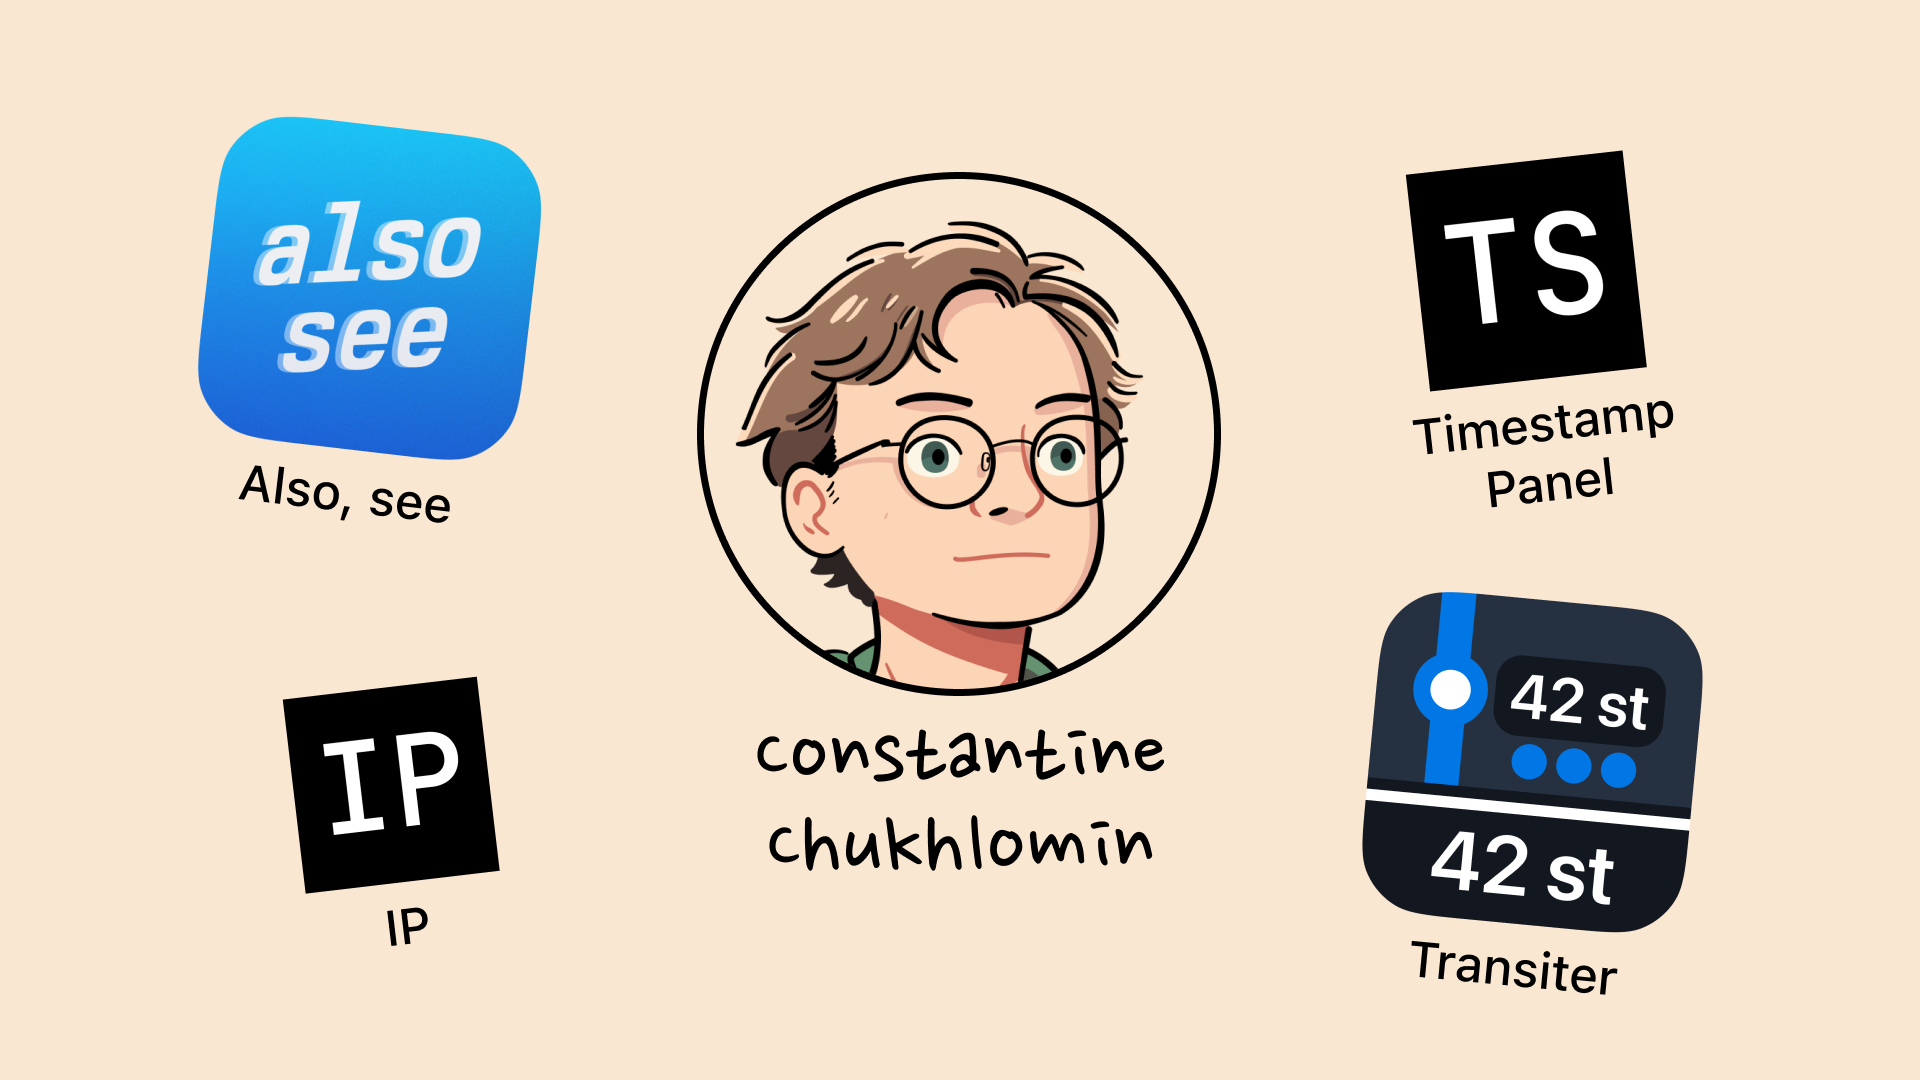
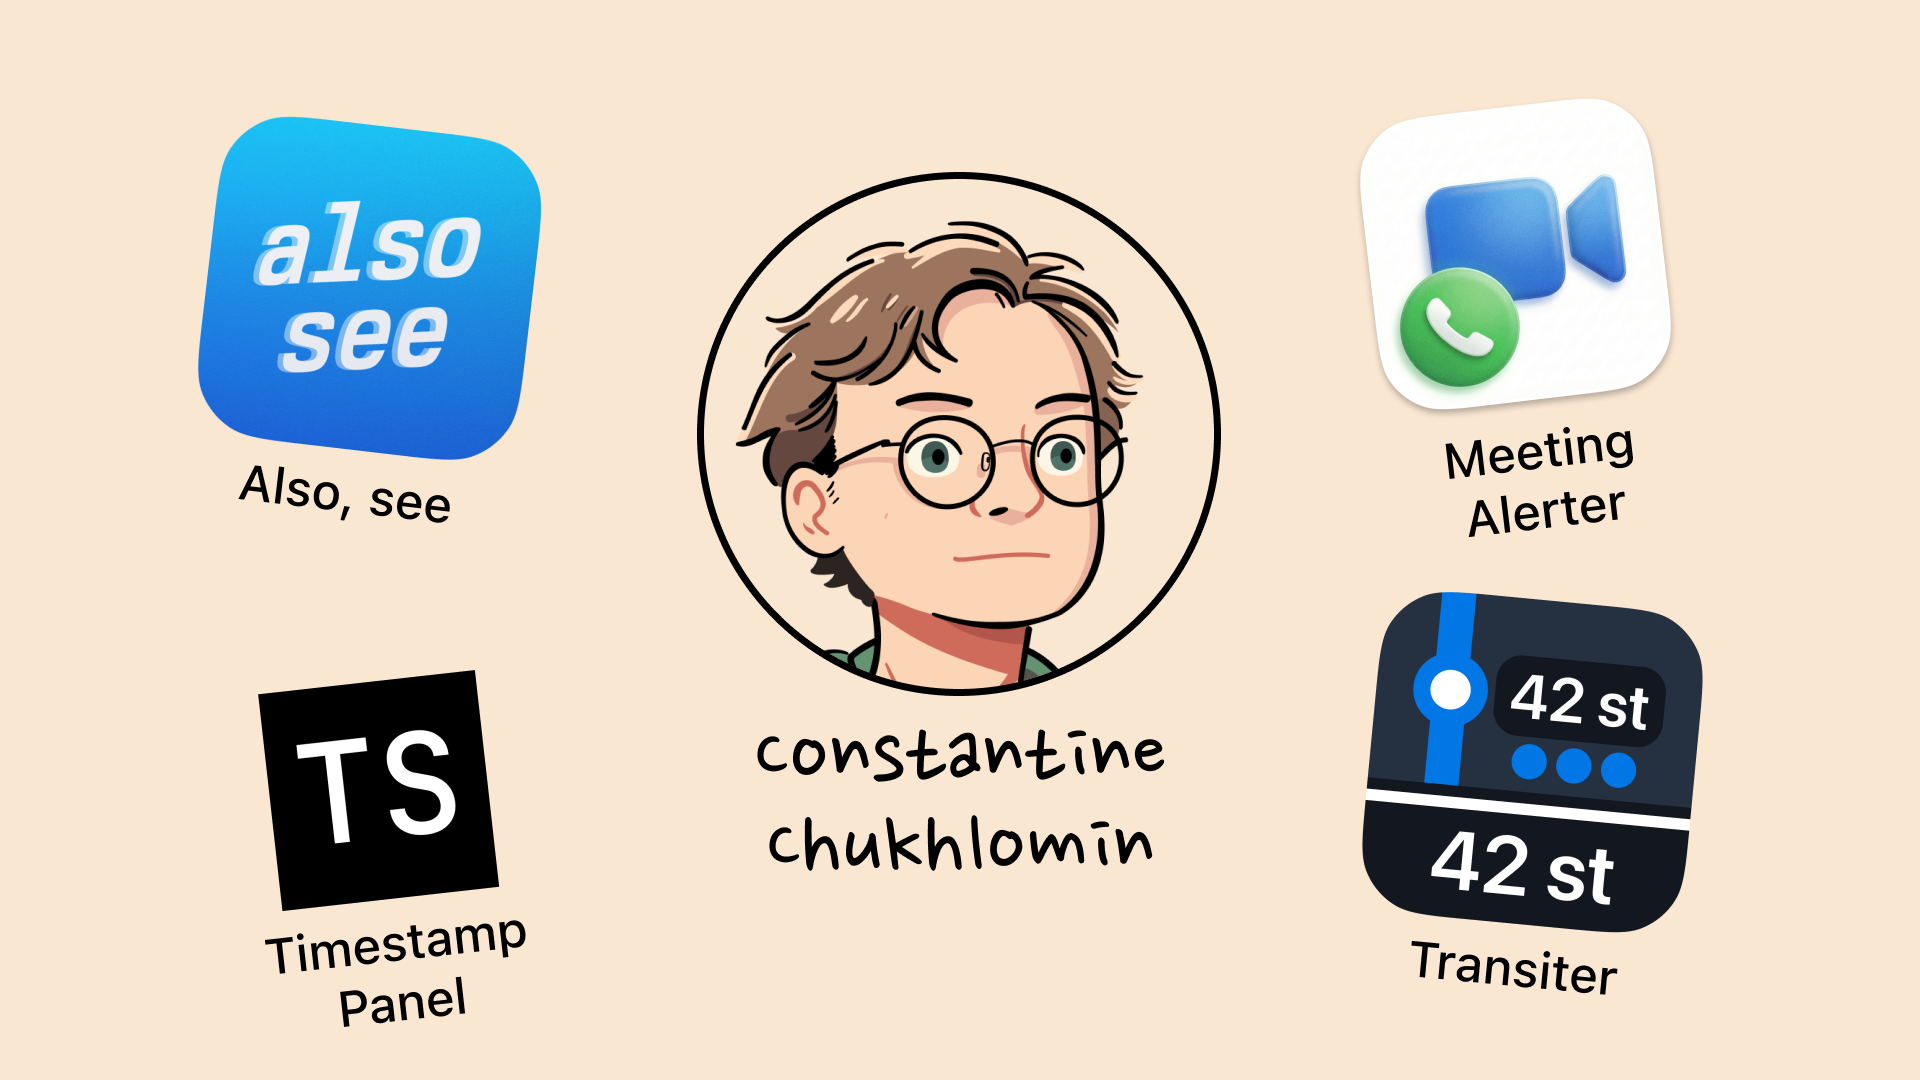
feat: meeting-alerter

Changed region(s): [[0.6875, 0.0917, 0.875, 0.4889], [0.125, 0.6417, 0.2812, 0.9472], [0.1562, 0.6111, 0.25, 0.6417]]

diff --git a/content/styles.css b/content/styles.css
@@ -606,7 +606,8 @@ iframe {
 }
 
 #alsosee,
-#transiter {
+/*#transiter,*/
+#meeting-alerter {
   grid-column: 1 / 3;
 }
 
@@ -1102,7 +1103,8 @@ hr {
   }
 
   #alsosee,
-  #transiter {
+  /*#transiter,*/
+ #meeting-alerter {
     grid-column: 1;
   }
 
@@ -1212,11 +1214,11 @@ hr {
     grid-template-columns: repeat(4, 1fr);
   }
 
-  #alsosee {
+  #meeting-alerter {
     grid-column: 1 / span 2;
   }
 
-  #transiter {
+  #alsosee {
     grid-column: 3 / span 2;
   }
 }
@@ -1270,14 +1272,15 @@ hr {
   box-shadow: 0 0 10px rgba(0, 0, 0, 0.1);
   overflow: hidden;
   position: relative;
-  /* for :before element with blurhash image */
+  /* for :before element with thumbhash image */
   transition-property: outline;
   /* override link transition */
   transition-duration: 0.05s;
 }
 
 .photos .photo.lazy {
-  background: var(--color-background-higher) !important;
+  background-color: var(--color-background-higher);
+  background-image: none !important;
 }
 
 .photos .photo::before {
@@ -1288,7 +1291,10 @@ hr {
   bottom: 0;
   left: 0;
   right: 0;
-  background: var(--background-blurhash);
+  background-image: var(--background-thumbhash);
+  background-repeat: no-repeat;
+  background-position: center;
+  background-size: cover;
   /* set by JS per element */
   opacity: 0;
   transition: opacity 0.33s ease-out;
@@ -1296,6 +1302,14 @@ hr {
 
 .photos .photo.lazy::before {
   opacity: 1;
+}
+
+.photos .photo.lazy:hover {
+  background-image: var(--background-thumb-image) !important;
+}
+
+.photos .photo.lazy:hover::before {
+  opacity: 0;
 }
 
 .photos a:focus {
@@ -1344,7 +1358,7 @@ hr {
   /* center image when text is longer than image width */
 }
 
-#viewer #image.blurhash {
+#viewer #image.thumbhash {
   background-repeat: no-repeat;
   background-position: center;
   background-size: contain;

diff --git a/content/blog/2026/meeting-alerter_ru.md b/content/blog/2026/meeting-alerter_ru.md
@@ -1,0 +1,18 @@
+---
+date: 2026-08-11
+image: meeting-alerter_icon.png
+---
+
+# Meeting Alerter
+
+Очень не люблю опаздывать на онлайн созвоны. Я перепробовал несколько разных приложений, но каждое в чём-то не устроило, и написал своё. Основная идея в том, чтобы показывать _и_ время до начала следующего митинга в строке меню macOS, _и_ окно когда эта встреча начинается.
+
+![Meeting Alerter](meeting-alerter.png "Meeting Alerter")
+
+Работа над этим приложением началась пару лет назад. Сначала хотел выпустить его только с поддержкой Apple Calendar, но EventKit не даёт доступа к прикреплённым документам событий из Google Calendar, поэтому пришлось добавить интеграцию и с Google Calendar напрямую.
+
+С помощью LLM, наконец довёл приложение до релиза.
+
+https://meeting-alerter.app/
+
+#app #macos #project

diff --git a/content/blog/2026/meeting-alerter.md b/content/blog/2026/meeting-alerter.md
@@ -1,0 +1,19 @@
+---
+date: 2026-08-11
+---
+
+# Meeting Alerter
+
+I have been working on this app for a couple of years to help me navigate my crazy days full of meetings.
+
+It lives in the MacOS menu bar, shows what is coming up, reminds me when a meeting starts, and opens Zoom in one click.
+
+![meeting-alerter.png](meeting-alerter.png "Meeting Alerter Promo")
+
+At first, I planned to launch it with Apple Calendar support only. But EventKit does not expose Google Calendar attachments, so I had to add direct Google Calendar support too.
+
+With help from LLMs, I was finally able to get it into a shippable state.
+
+https://meeting-alerter.app/
+
+#app #macos #project
